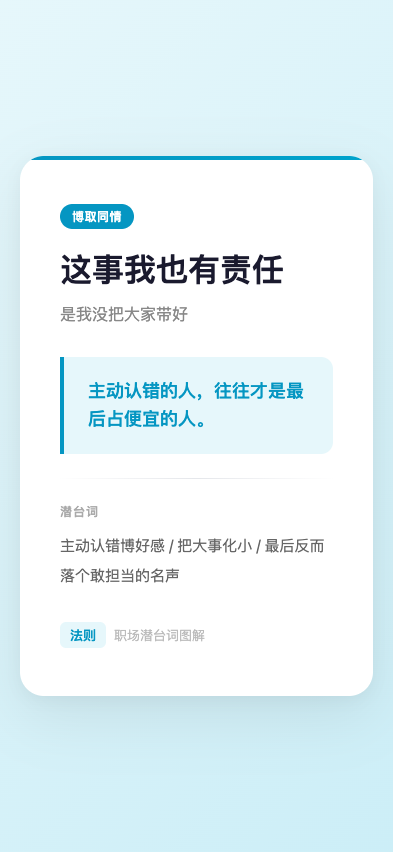
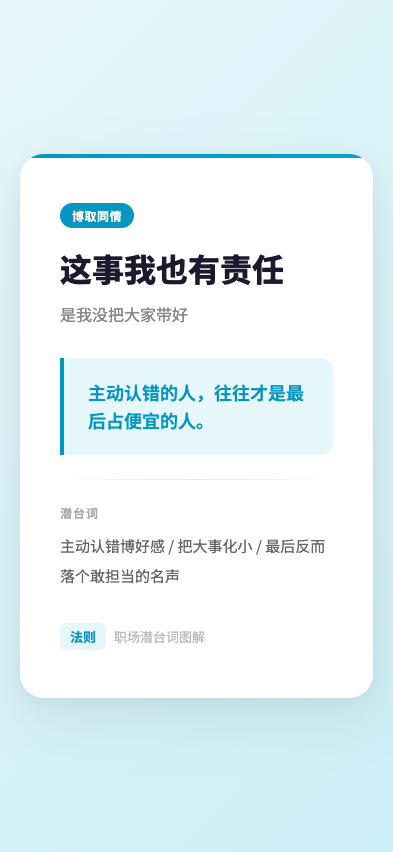
feat: 职场生存法则 screenshot - zheshiwoyeyouzeren

diff --git a/wuliao-tools/tools/biz-speak/scenes/woquxizaole.html b/wuliao-tools/tools/biz-speak/scenes/woquxizaole.html
@@ -24,11 +24,11 @@
   }
   body::before {
     content:''; position:absolute; top:0; left:0; right:0; height:45%;
-    background:radial-gradient(ellipse at 50% 0%, rgba(4a,144,217,0.1) 0%, transparent 65%);
+    background:radial-gradient(ellipse at 50% 0%, rgba(74,144,217,0.1) 0%, transparent 65%);
     pointer-events:none; z-index:0;
   }
   .top { flex:1; display:flex; flex-direction:column; align-items:center; justify-content:flex-end; padding:4px 28px 8px; position:relative; z-index:1; }
-  .tag { font-size:11px; letter-spacing:3px; color:var(--gold); border:1px solid rgba(4a,144,217,0.3); padding:5px 16px; border-radius:50px; margin-bottom:20px; }
+  .tag { font-size:11px; letter-spacing:3px; color:var(--gold); border:1px solid rgba(74,144,217,0.3); padding:5px 16px; border-radius:50px; margin-bottom:20px; }
   .main-title { font-family:'Noto Serif SC'; font-size:68px; font-weight:900; text-align:center; line-height:1.15; letter-spacing:3px; min-width:0; overflow-wrap:break-word; max-width:92%; }
   .sub-title { font-size:26px; color:var(--text-dim); text-align:center; margin-top:14px; }
   .divider { width:100%; height:3px; background:linear-gradient(90deg,transparent,var(--gold),transparent); opacity:0.35; flex-shrink:0; position:relative; z-index:1; }
